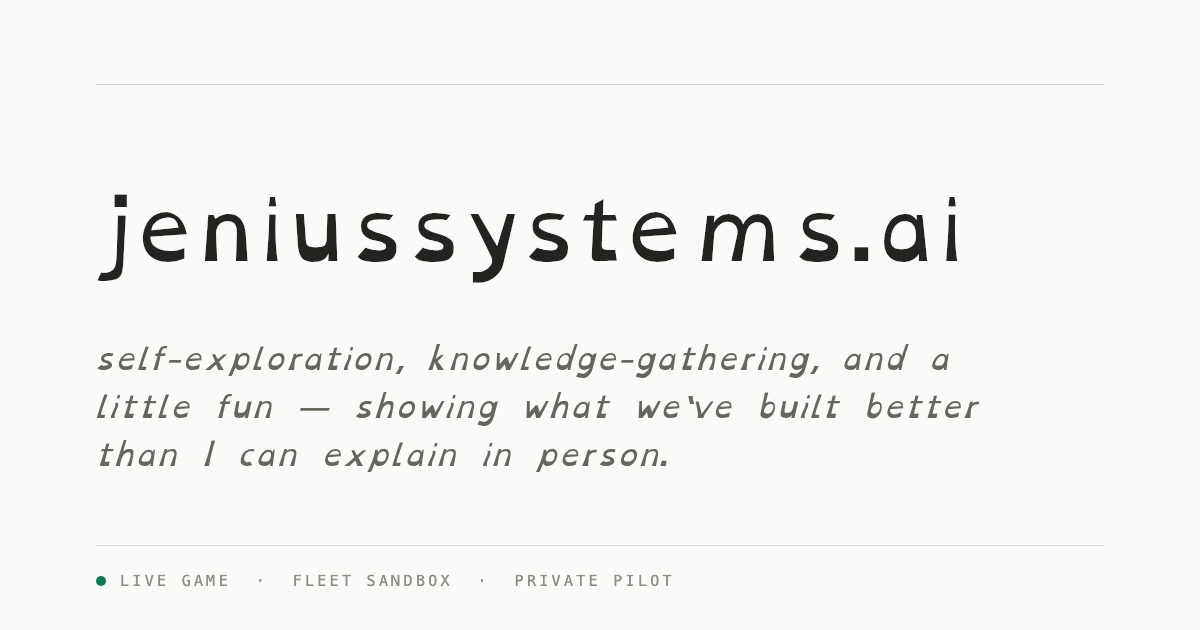
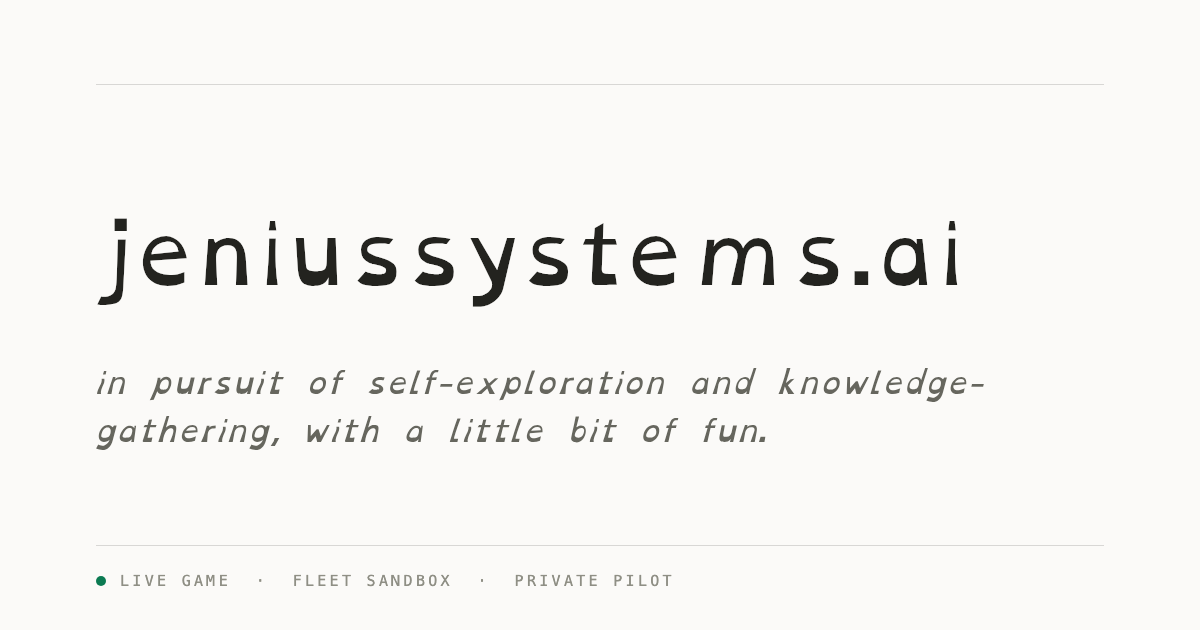
copy: hero tagline ends at 'a little bit of fun'; later themes distributed into build blurbs + footer (James's direction)

Changed region(s): [[0.0617, 0.5429, 0.8325, 0.754], [0.0617, 0.3016, 0.8017, 0.4825]]

diff --git a/index.html b/index.html
@@ -15,14 +15,14 @@
 <meta property="og:type" content="website" />
 <meta property="og:site_name" content="jeniussystems.ai" />
 <meta property="og:title" content="jeniussystems.ai" />
-<meta property="og:description" content="self-exploration, knowledge-gathering, and a little fun — showing what we've built better than I can explain in person. always evolving, seriously locked down." />
+<meta property="og:description" content="in pursuit of self-exploration and knowledge-gathering, with a little bit of fun." />
 <meta property="og:url" content="https://jeniussystems.ai/" />
 <meta property="og:image" content="https://jeniussystems.ai/assets/og.png" />
 <meta property="og:image:width" content="1200" />
 <meta property="og:image:height" content="630" />
 <meta name="twitter:card" content="summary_large_image" />
 <meta name="twitter:title" content="jeniussystems.ai" />
-<meta name="twitter:description" content="self-exploration, knowledge-gathering, and a little fun — showing what we've built better than I can explain in person." />
+<meta name="twitter:description" content="in pursuit of self-exploration and knowledge-gathering, with a little bit of fun." />
 <meta name="twitter:image" content="https://jeniussystems.ai/assets/og.png" />
 
 <link rel="icon" href="/assets/favicon.svg" type="image/svg+xml" />
@@ -63,9 +63,8 @@
 
   <header class="hero">
     <h1 class="wordmark">jeniussystems.ai</h1>
-    <p class="tagline">self-exploration, knowledge-gathering, and a little fun&nbsp;— showing
-      what we've built better than I can explain in person. always evolving, seriously
-      locked&nbsp;down.</p>
+    <p class="tagline">in pursuit of self-exploration and knowledge-gathering,
+      with a little bit of&nbsp;fun.</p>
   </header>
 
   <section id="builds" class="builds-section" aria-label="The builds">
@@ -88,7 +87,8 @@
         </p>
         <p class="build-desc">a self-hosted fleet of AI agents — mail, health, calendar,
           concierge and more — behind one hardened gateway, being rebuilt for round two.
-          the architecture tour lives in the sandbox.</p>
+          the tour explains what I've built and how it works better than I can in
+          person — and shows off a little.</p>
       </li>
 
       <li>
@@ -97,7 +97,8 @@
           <span class="chip">PRIVATE PILOT</span>
         </p>
         <p class="build-desc">construction finance, penny-exact: pdf invoices in, approved
-          draw packages out. private by design — case notes only.</p>
+          draw packages out. enterprise-level security, private by design — case
+          notes only.</p>
       </li>
 
       <!-- ──────────────────────────────────────────────────────────
@@ -115,8 +116,8 @@
   </section>
 
   <footer class="foot">
-    one human + a fleet of AI agents · every status label is honest<br>
-    © 2026 jenius systems
+    one human + a fleet of AI agents · adapting as we build<br>
+    every status label is honest · © 2026 jenius systems
   </footer>
 
 </main>

diff --git a/assets/og-card.html b/assets/og-card.html
@@ -36,8 +36,8 @@
 <body>
   <div class="rule-t"></div>
   <h1>jeniussystems.ai</h1>
-  <p class="tag">self-exploration, knowledge-gathering, and a little fun —
-    showing what we've built better than I can explain in person.</p>
+  <p class="tag">in pursuit of self-exploration and knowledge-gathering,
+    with a little bit of fun.</p>
   <div class="rule-b"></div>
   <p class="meta"><span class="dot"></span>LIVE GAME&nbsp;&nbsp;·&nbsp;&nbsp;FLEET SANDBOX&nbsp;&nbsp;·&nbsp;&nbsp;PRIVATE PILOT</p>
 </body>
